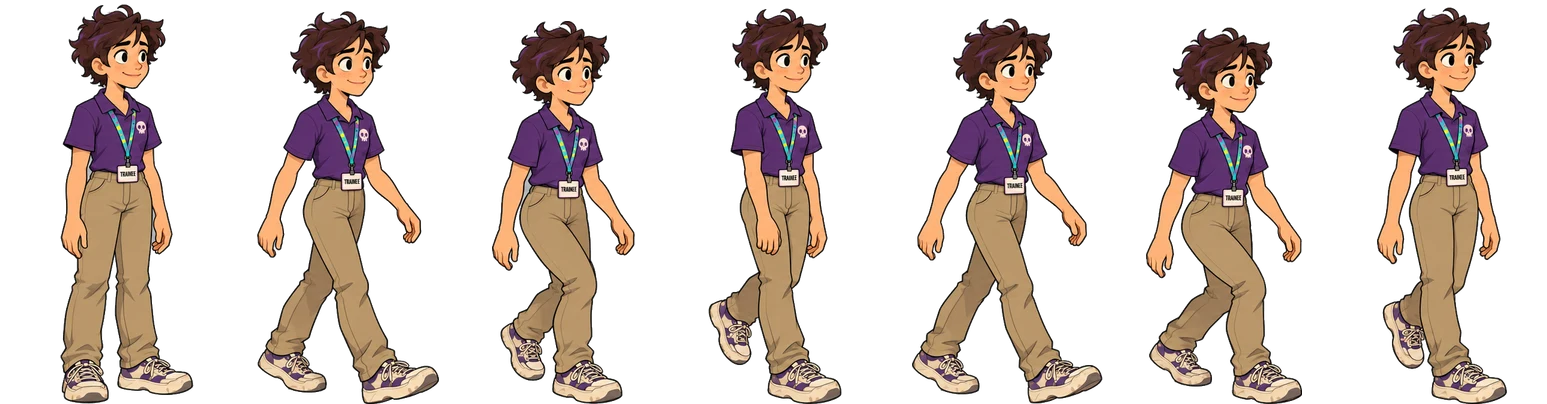
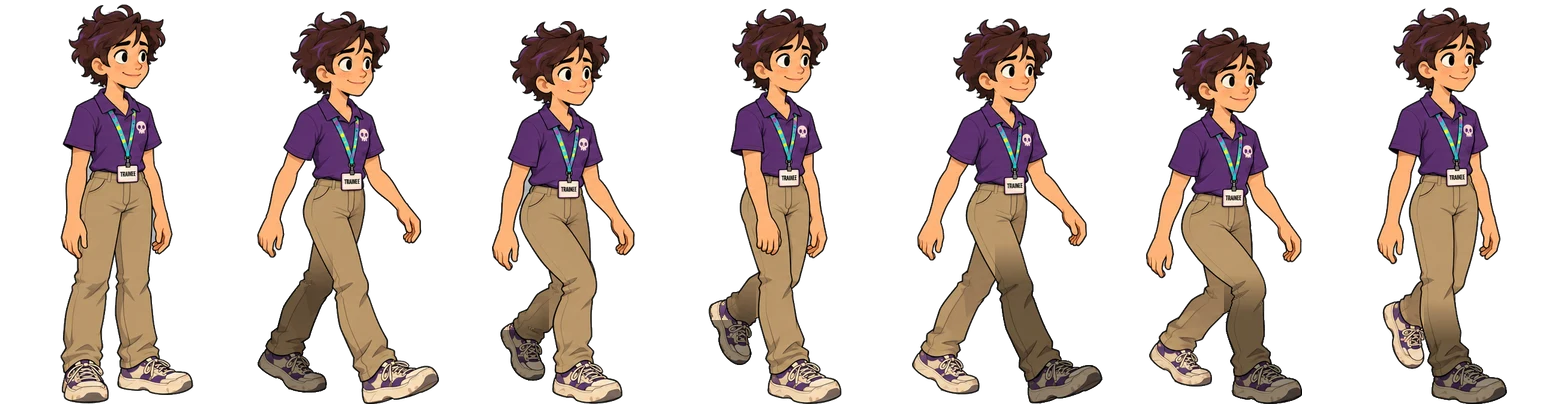
Slice 27: shaded walk frames; cutout with flat feet and darker far limbs
Every generator drew the same leg leading both steps, so the frames
sheet shades the far leg darker instead (scripts/shade-far-leg.py).
The cutout gets separate shoes kept nearly flat, a shorter stride and a
darker tint on the far limbs.

diff --git a/src/content/dana.ts b/src/content/dana.ts
@@ -3,7 +3,7 @@ import type { Character } from '../core/types';
 /**
  * Dana, the player. Their walk is slice 27's prototype, two ways (docs/art/prompts-walk.md):
  * `frames` is ChatGPT's walk sheet, aligned so the torso holds still and the feet sit on each cell's
- * floor; `parts` is the paper-doll sheet, pinned at hips, knees and shoulders. Part coordinates are
+ * floor; `parts` is the paper-doll sheet, pinned at hips, knees, ankles and shoulders. Part coordinates are
  * in the scaled sheet's pixels (Dana stands 400 px tall in it), drawn back to front.
  */
 export const dana: Character = {
@@ -18,9 +18,11 @@ export const dana: Character = {
       parts: [
         { id: 'farArm', role: 'arm', side: 'far', crop: { x: 326, y: 50, width: 40, height: 146 }, pivot: { x: 342.1, y: 60.7 }, at: { x: 26.1, y: -299.3 } },
         { id: 'farThigh', role: 'thigh', side: 'far', crop: { x: 297, y: 205, width: 53, height: 127 }, pivot: { x: 326.8, y: 217.9 }, at: { x: 13.6, y: -231.4 } },
-        { id: 'farShin', role: 'shin', side: 'far', crop: { x: 372, y: 207, width: 89, height: 146 }, pivot: { x: 392.1, y: 219.6 }, at: { x: -10.7, y: 98.2 }, parent: 'farThigh' },
+        { id: 'farShin', role: 'shin', side: 'far', crop: { x: 372, y: 207, width: 89, height: 112 }, pivot: { x: 392.1, y: 219.6 }, at: { x: -10.7, y: 98.2 }, parent: 'farThigh' },
+        { id: 'farFoot', role: 'foot', side: 'far', crop: { x: 372, y: 312, width: 89, height: 41 }, pivot: { x: 406, y: 316 }, at: { x: 13.9, y: 96.4 }, parent: 'farShin' },
         { id: 'nearThigh', role: 'thigh', side: 'near', crop: { x: 117, y: 203, width: 53, height: 125 }, pivot: { x: 147.1, y: 216.1 }, at: { x: -13.2, y: -231.4 } },
-        { id: 'nearShin', role: 'shin', side: 'near', crop: { x: 198, y: 207, width: 86, height: 146 }, pivot: { x: 218.2, y: 219.6 }, at: { x: -11.4, y: 98.2 }, parent: 'nearThigh' },
+        { id: 'nearShin', role: 'shin', side: 'near', crop: { x: 198, y: 207, width: 86, height: 112 }, pivot: { x: 218.2, y: 219.6 }, at: { x: -11.4, y: 98.2 }, parent: 'nearThigh' },
+        { id: 'nearFoot', role: 'foot', side: 'near', crop: { x: 198, y: 312, width: 86, height: 41 }, pivot: { x: 231, y: 316 }, at: { x: 12.8, y: 96.4 }, parent: 'nearShin' },
         { id: 'body', role: 'body', crop: { x: 117, y: 8, width: 93, height: 186 }, pivot: { x: 166.8, y: 408.2 }, at: { x: 0.0, y: 0.0 } },
         { id: 'nearArm', role: 'arm', side: 'near', crop: { x: 248, y: 47, width: 42, height: 149 }, pivot: { x: 274.3, y: 58.9 }, at: { x: -38.2, y: -299.3 } },
       ],

diff --git a/src/view/Walker.ts b/src/view/Walker.ts
@@ -27,9 +27,13 @@ const HOP = { height: 5, periodMs: 150, leanDegrees: 3 };
 
 /**
  * Cutout walk, in degrees and sheet pixels. One step covers STRIDE on-screen pixels, so the feet keep
- * pace with the floor at any walk speed.
+ * pace with the floor at any walk speed. A foot keeps only `footRoll` of its leg's tilt, so it stays
+ * nearly flat instead of digging its toe into the floor.
  */
-const CUTOUT = { stride: 90, thigh: 22, knee: 40, arm: 18, bob: 2 };
+const CUTOUT = { stride: 72, thigh: 18, knee: 35, arm: 16, bob: 2, footRoll: 0.3 };
+
+/** The cutout's far limbs are drawn this much darker (a multiply tint). */
+const FAR_TINT = 0xb4b4b4;
 
 /** Texture keys of a walk's sprite sheet and its animation. */
 export const walkSheetKey = (sheet: string) => `walk:${sheet}`;
@@ -164,6 +168,8 @@ export class Walker {
       const image = this.scene.add
         .image(0, 0, key, frame)
         .setOrigin((part.pivot.x - part.crop.x) / part.crop.width, (part.pivot.y - part.crop.y) / part.crop.height);
+      // Far limbs are a shade darker, so the legs read as taking turns.
+      if (part.side === 'far') image.setTint(FAR_TINT);
       const turn = this.scene.add.container(part.at.x, part.at.y, [image]);
       // A lower limb tucks in behind the one it hangs from, so the thigh's hem covers the knee.
       if (part.parent) byId.get(part.parent)!.addAt(turn, 0);
@@ -180,19 +186,26 @@ export class Walker {
    */
   private pose(phase: number | undefined): void {
     let spread = 0;
+    // Each leg's tilt so far (thigh, then knee), which its foot mostly undoes.
+    const tilt = { near: 0, far: 0 };
     for (const { part, turn } of this.joints) {
       if (phase === undefined) {
         turn.setAngle(0);
         continue;
       }
+      const side = part.side ?? 'near';
       const s = (part.side === 'far' ? -1 : 1) * Math.sin(phase);
       const c = (part.side === 'far' ? -1 : 1) * Math.cos(phase);
       if (part.role === 'thigh') {
         turn.setAngle(-CUTOUT.thigh * s);
+        tilt[side] = turn.angle;
         spread = Math.max(spread, Math.abs(CUTOUT.thigh * s));
       } else if (part.role === 'shin') {
         // The knee bends while the leg swings forward through the air (passing), straight on the ground.
         turn.setAngle(CUTOUT.knee * Math.max(0, c));
+        tilt[side] += turn.angle;
+      } else if (part.role === 'foot') {
+        turn.setAngle(-(1 - CUTOUT.footRoll) * tilt[side]);
       } else if (part.role === 'arm') {
         turn.setAngle(CUTOUT.arm * s);
       }

diff --git a/src/content/content.test.ts b/src/content/content.test.ts
@@ -247,6 +247,7 @@ describe('content validation', () => {
           if (part.parent !== undefined && !seen.has(part.parent)) problems.push(`"${part.id}" hangs from "${part.parent}", which isn't listed before it`);
           if (part.role !== 'body' && part.side === undefined) problems.push(`"${part.id}" is a limb with no side (near or far)`);
           if (part.role === 'shin' && part.parent === undefined) problems.push(`"${part.id}" is a shin with no thigh to hang from`);
+          if (part.role === 'foot' && part.parent === undefined) problems.push(`"${part.id}" is a foot with no shin to hang from`);
           if (!(part.crop.width > 0 && part.crop.height > 0)) problems.push(`"${part.id}" has an empty crop`);
           seen.add(part.id);
         }

diff --git a/src/core/types.ts b/src/core/types.ts
@@ -149,8 +149,11 @@ export interface WalkParts {
 
 export interface WalkPart {
   id: string;
-  /** What it does in the walk: the body bobs; arms and thighs swing from their joints; a shin bends at the knee. */
-  role: 'body' | 'arm' | 'thigh' | 'shin';
+  /**
+   * What it does in the walk: the body bobs; arms and thighs swing from their joints; a shin bends
+   * at the knee; a foot hangs from its shin but stays nearly flat on the floor.
+   */
+  role: 'body' | 'arm' | 'thigh' | 'shin' | 'foot';
   /** Near limbs (towards the viewer) and far limbs swing in opposite phase. */
   side?: 'near' | 'far';
   /** Where the piece is in the sheet. */

diff --git a/scripts/shade-far-leg.py b/scripts/shade-far-leg.py
@@ -1,0 +1,41 @@
+"""shade-far-leg.py IN.png OUT.png -- shades the far leg darker in each walk frame, so the legs alternate: frames 1-3 the screen-left leg,
+frames 4-6 the screen-right leg. The legs are split at the crotch (the lowest point where the trousers
+are still one piece); above it, the split follows the crotch's column and fades out towards the hips.
+
+Slice 27: every generator drew the same leg leading both steps, so the tone tells the legs apart
+instead. IN is the aligned walk strip (221-px cells, standing pose first). Needs Pillow and numpy.
+"""
+import sys
+import numpy as np
+from PIL import Image
+W, DARK, FADE = 221, 0.58, 40
+im = np.asarray(Image.open(sys.argv[1])).astype(np.float32)
+out = im.copy()
+for i in range(1, 7):
+    c = im[:, W * i:W * (i + 1)]
+    a = c[..., 3] > 100
+    R, G, B = c[..., 0], c[..., 1], c[..., 2]
+    khaki = a & (R > 120) & (G > 100) & (B < 140) & (R - B > 30)
+    H = c.shape[0]
+    # The crotch: scanning up from the feet, the first row where the opaque figure in the leg zone is one run.
+    def runs(y):
+        xs = np.nonzero(a[y, 30:W - 30])[0] + 30
+        if len(xs) == 0: return []
+        cuts = np.nonzero(np.diff(xs) > 3)[0]
+        return np.split(xs, cuts + 1)
+    y = H - 40
+    while y > H * 0.45 and len(runs(y)) >= 2: y -= 1
+    crotch_y = y
+    rs = runs(crotch_y + 3)
+    gap_x = (rs[0][-1] + rs[1][0]) / 2 if len(rs) >= 2 else W / 2
+    xs = np.arange(W)[None, :]
+    ys = np.arange(H)[:, None]
+    side = xs < gap_x if i <= 3 else xs >= gap_x
+    weight = np.clip((ys - (crotch_y - FADE)) / FADE, 0, 1)  # 0 above the fade, 1 below the crotch
+    mask = (side & a) * weight
+    # Only the trousers and shoes: below the crotch everything on that side is leg.
+    mask = np.where(ys >= crotch_y, side & a, mask * khaki)
+    k = 1 - (1 - DARK) * mask
+    out[:, W * i:W * (i + 1), :3] = c[..., :3] * k[..., None]
+    print(i, 'crotch', crotch_y, 'gap', round(gap_x))
+Image.fromarray(out.clip(0, 255).astype(np.uint8)).save(sys.argv[2])

diff --git a/docs/slices/27-walk-animation.md b/docs/slices/27-walk-animation.md
@@ -154,3 +154,10 @@ session's own PR).
 - **Round 4** (Gemini, only the second step, with the back leg shaded dark as a handle) limped
   too. **Round 5** gives Dana a costume marker, at the developer's call: the near trouser leg
   rolled up over a lime-green sock, so the generator can see which leg leads.
+- **Round 5** (marker) cropped both trouser legs and still led with the wrong leg in pose 5. Generation
+  stopped there. The frames sheet is now round 1 with **the far leg shaded** by
+  `scripts/shade-far-leg.py` (the back leg in the first step, the front leg in the second, 58% tone).
+- **Cutout fixes** (the developer found it weird): each shoe is its own piece under the trouser hem,
+  hung from the shin at the ankle and kept nearly flat (it keeps 30% of the leg's tilt), so toes no
+  longer dig into the floor; a shorter stride (72 px, thighs ±18°); far limbs tinted darker.
+  Clip: `art-inbox/walk-compare-3.mp4` (hop, shaded frames, cutout).
